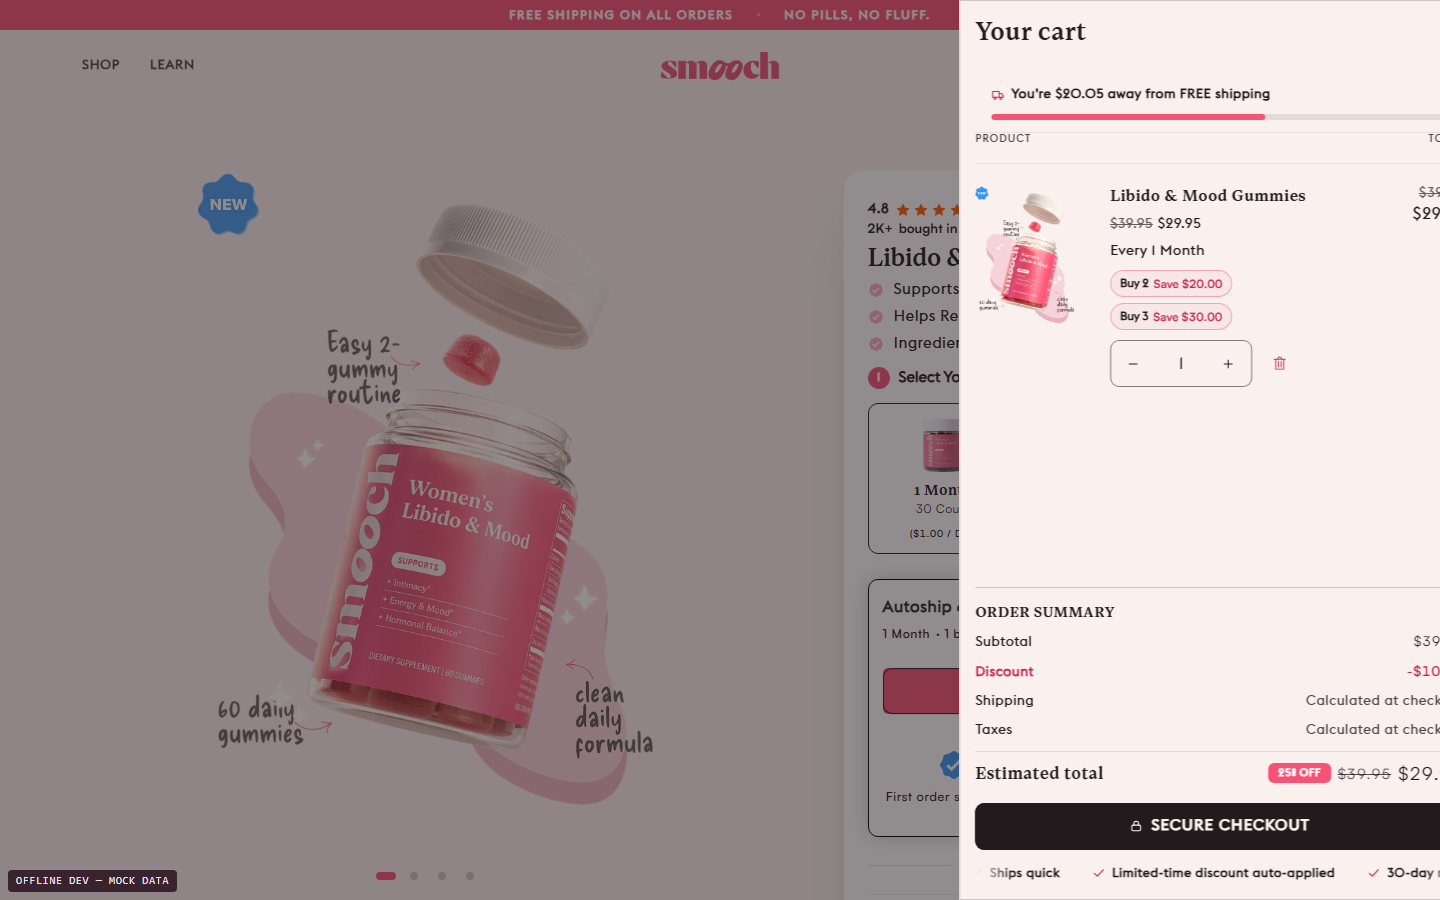
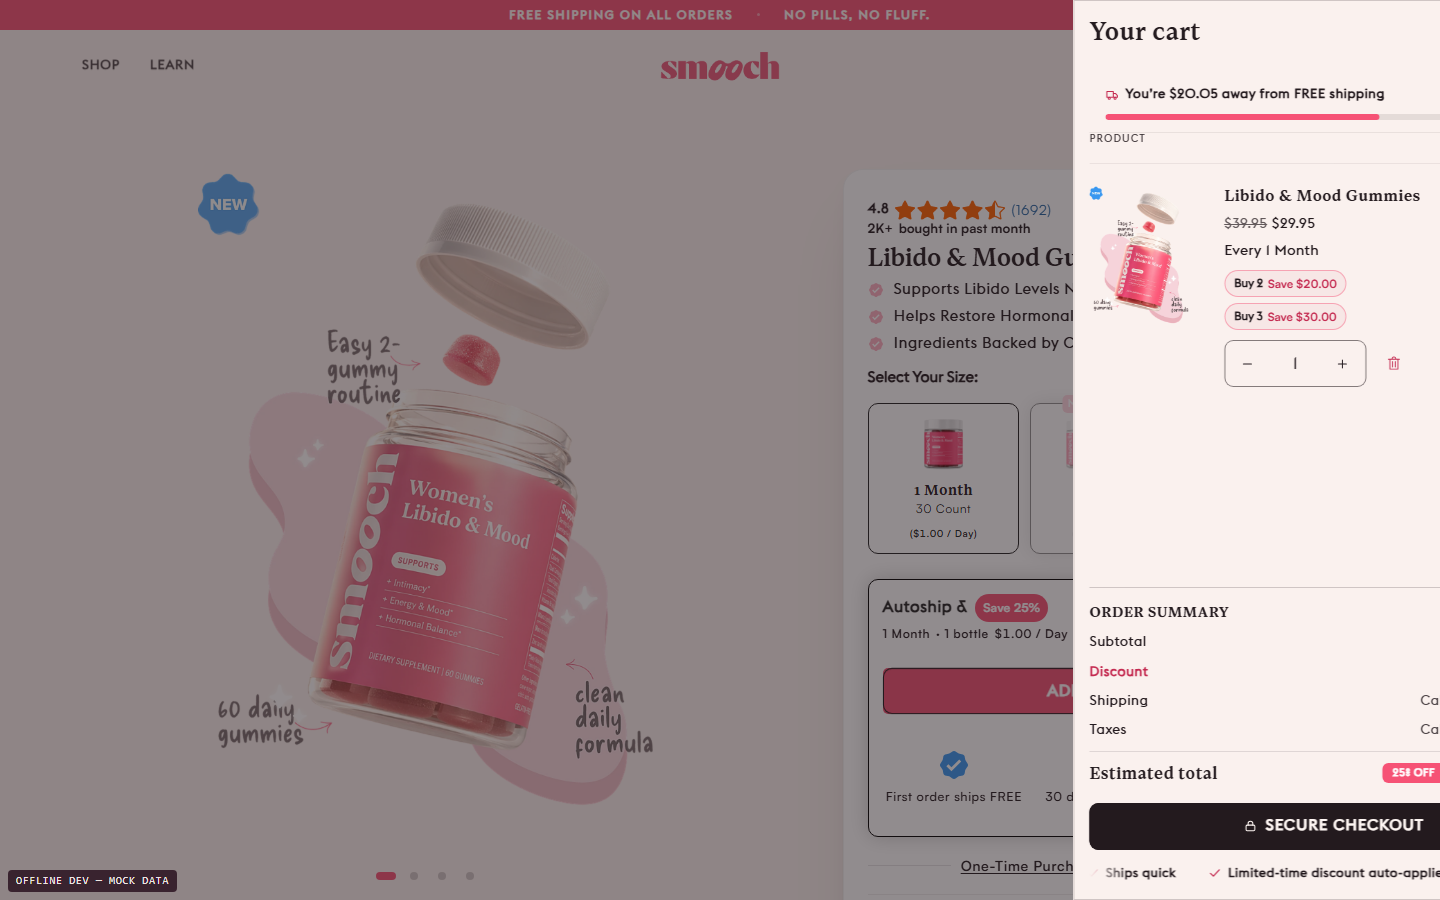
Buybox per owner: exact star artwork, no step number, owner's bottle art on size cards
- Rating row renders the owner's Stars.png verbatim (4 full + sliver star)
  via a new use_image mode on smooch-rating; SVG stars remain everywhere else.
- "Select Your Size:" heading is unnumbered (pink "1" badge removed; tests updated).
- Size cards use the owner's 1/2/3-bottle renders (transparent PNGs, native
  res covers the 5rem display height at 2x).
- 61/61 local Playwright, Theme Check clean.

Claude-Session: https://claude.ai/code/session_017i1BJeBWWGwGv4noCgzqqW

Changed region(s): [[0.5938, 0.0, 1.0, 1.0], [0.875, 0.7156, 1.0, 0.8711]]

diff --git a/assets/smooch-product.css b/assets/smooch-product.css
@@ -2224,6 +2224,13 @@ body.smooch-sticky-atc-visible {
   color: #ff6201;
 }
 
+/* Brand star artwork in the buybox rating row (Stars.png, 176x32). */
+.smooch-stars-img {
+  display: block;
+  height: 2rem;
+  width: auto;
+}
+
 /* Review count reads as an Amazon-style blue link. */
 .smooch-buybox .smooch-rating__count {
   color: #2162a1;
